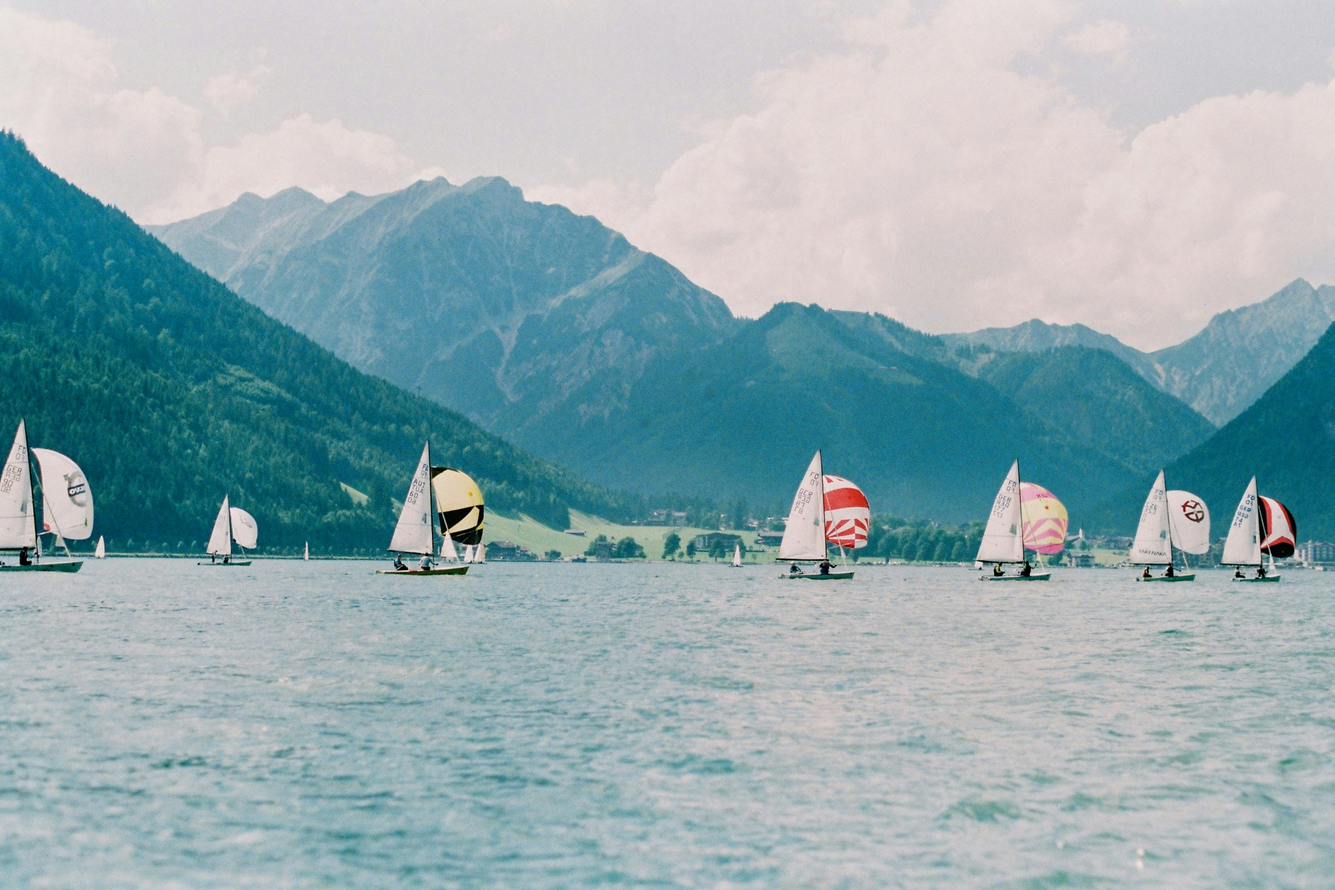
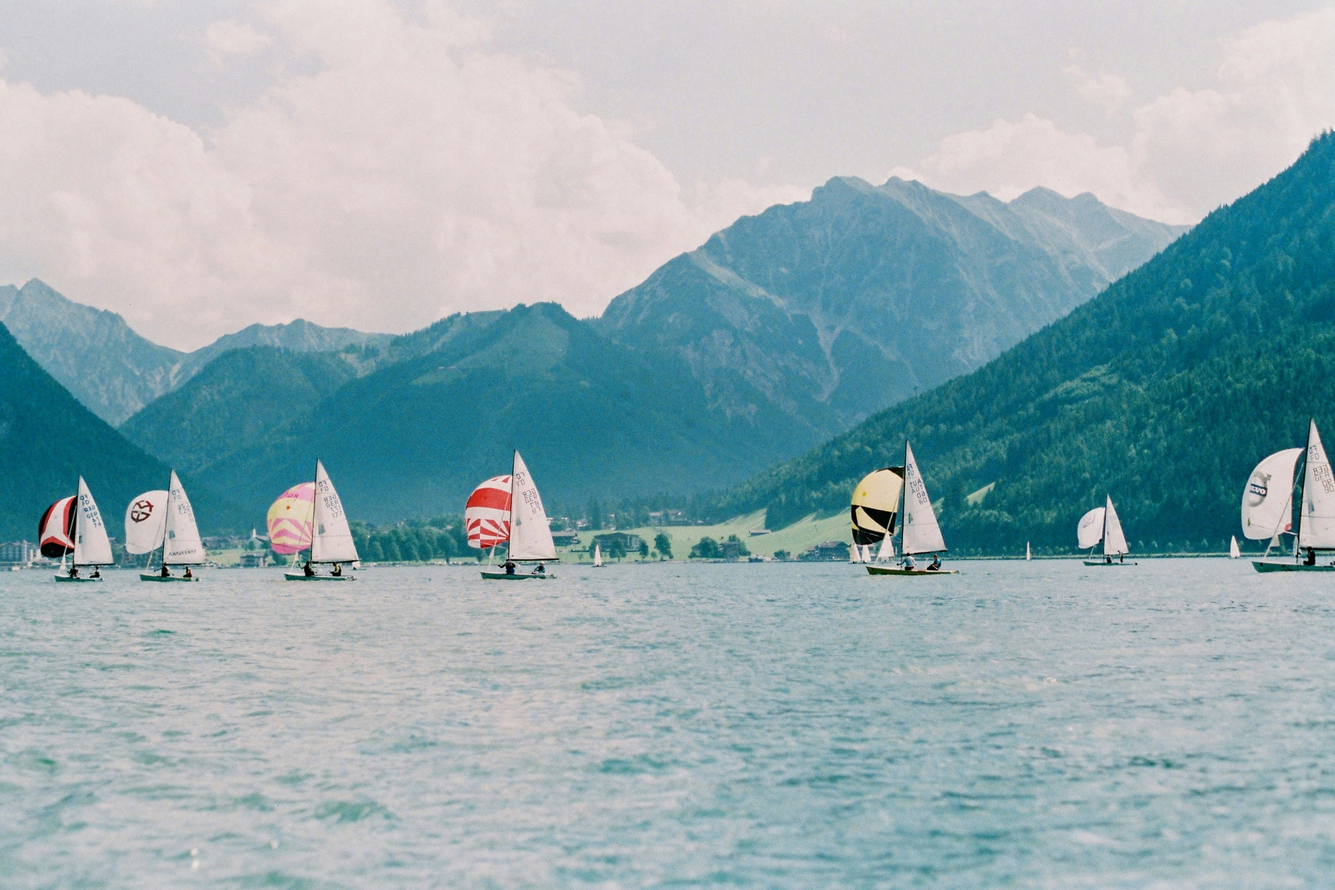
Preview page

diff --git a/src/components/PreviewPage.jsx b/src/components/PreviewPage.jsx
@@ -1,34 +1,46 @@
 import React from 'react';
 import TabletDeviceWrapper from './TabletDeviceWrapper';
 
+// Feature list component - displays app features on the left side
 const FeatureList = () => (
-  <div className="text-white space-y-8 max-w-xl">
-    <h1 className="text-4xl font-bold mb-8">NHEBSC Racing Results</h1>
+  <div className="text-gray-100 space-y-8 max-w-xl ">
+    <div className="flex">
+
+<div className="h-24 w-24 mr-2 rotate-90 fill-slate-100">
+    <svg xmlns="http://www.w3.org/2000/svg" viewBox="0 -960 960 960"><path d="M526-129q-5 4-10.5 6t-10.5 2q-6 0-11-2t-10-7q-41-43-61-89t-20-96q0-36 11-76.5T453-501q26-60 35-92.5t9-59.5q0-38-16.5-71T429-789q-5-5-7-10.5t-2-11.5q0-5 1.5-10t5.5-10q5-5 10.5-7.5T449-841q5 0 10.5 2t10.5 7q44 41 65.5 85t21.5 94q0 34-10 71.5T509-478q-26 61-36 96.5T463-316q0 39 16 74.5t49 70.5q4 5 5.5 10t1.5 10q0 6-2 11.5t-7 10.5Zm203 1q-5 4-10 5.5t-10 1.5q-6 0-11.5-2t-10.5-7q-41-43-61-88.5T606-314q0-36 11-76.5T656-500q26-60 35-92.5t9-59.5q0-38-16.5-70.5T632-788q-5-5-6.5-10t-1.5-11q0-5 1.5-10.5T631-830q5-5 10.5-7t11.5-2q5 0 10 1.5t10 5.5q44 41 65.5 85t21.5 94q0 34-10 71t-38 105q-26 60-36 95.5T666-316q0 39 16 75.5t49 70.5q4 5 5.5 10t1.5 10q0 6-2 11.5t-7 10.5Zm-406 0q-5 4-10 5.5t-10 1.5q-6 0-11.5-2t-10.5-7q-41-43-61-88.5T200-314q0-36 11-76.5T250-500q26-60 35-92.5t9-59.5q0-38-16.5-70.5T226-788q-5-5-7-10.5t-2-11.5q0-5 1.5-10.5T224-831q5-5 10.5-7.5T246-841q5 0 10.5 2t10.5 7q44 41 65.5 85t21.5 94q0 34-10.5 72.5T306-477q-25 60-35 95t-10 66q0 40 16 76t48 70q4 5 5.5 10t1.5 10q0 6-2 11.5t-7 10.5Z"/></svg>
+</div>
+
+<div className="flex flex-col align-middle justify-around">
+
+<h1 className="text-8xl w-full font-extralight font-h1 uppercase tracking-widest">WindSheet</h1>
+<h2 className="text-3xl w-full ml-3 font-light mb-8 font-h2 ">Racing results, refined</h2>
+</div>
+    </div>
     
-    <div className="space-y-4">
+    <div className="space-y-6">
       <div className="feature-item">
-        <h3 className="text-xl font-semibold mb-2">Real-time Race Management</h3>
-        <p className="text-gray-200">Register helms, record finishes, and manage race results with an intuitive drag-and-drop interface.</p>
+        <h3 className="text-xl mb-2">Real-time Race Management</h3>
+        <p >Register helms, record finishes, and manage race results with an intuitive drag-and-drop interface.</p>
       </div>
 
       <div className="feature-item">
-        <h3 className="text-xl font-semibold mb-2">Advanced Handicap System</h3>
-        <p className="text-gray-200">Automatic calculation of personal and class handicaps with rolling averages and novice adjustments.</p>
+        <h3 className="text-xl mb-2">Advanced Handicap System</h3>
+        <p >Automatic calculation of personal and class handicaps with rolling averages and novice adjustments.</p>
       </div>
 
       <div className="feature-item">
-        <h3 className="text-xl font-semibold mb-2">Series Tracking</h3>
-        <p className="text-gray-200">Comprehensive series points calculation with support for discards and OOD points.</p>
+        <h3 className="text-xl mb-2">Series Tracking</h3>
+        <p >Comprehensive series points calculation with support for discards and OOD points.</p>
       </div>
 
       <div className="feature-item">
-        <h3 className="text-xl font-semibold mb-2">Offline Capable</h3>
-        <p className="text-gray-200">Full offline functionality with automatic synchronization when connection is restored.</p>
+        <h3 className="text-xl mb-2">Offline Capable</h3>
+        <p >Full offline functionality with automatic synchronization when connection is restored.</p>
       </div>
 
       <div className="feature-item">
-        <h3 className="text-xl font-semibold mb-2">Multi-format Racing</h3>
-        <p className="text-gray-200">Support for both fleet and pursuit racing with specialized result handling for each format.</p>
+        <h3 className="text-xl mb-2">Multi-format Racing</h3>
+        <p >Support for both fleet and pursuit racing with specialized result handling for each format.</p>
       </div>
     </div>
   </div>
@@ -39,32 +51,32 @@ const PreviewPage = ({ children }) => {
     <div className="min-h-screen w-full relative overflow-hidden flex items-center">
       {/* Background Image with Color Filter */}
       <div 
-        className="absolute inset-0 bg-cover bg-center z-0 saturate-100 brightness-150 opacity-80"
+        className="absolute inset-0 bg-cover bg-center z-0 bg-white saturate-200 brightness-100 opacity-80"
         style={{ 
           backgroundImage: 'url(/sailing-background.jpg)', // You'll need to add this image
         }}
       >
         {/* Color Overlay - adjust hue by changing the color and opacity */}
         <div 
-          className="absolute inset-0" 
+          className="absolute inset-0 brightness-90 bg-gradient-to-tr from-[rgb(var(--dusky-blue))] via-50% via-slate-500 to-[rgb(var(--teal))]" 
           style={{ 
-            backgroundColor: 'rgb(0 87 109)', // Change this color to adjust the hue
-            opacity: 0.5,
+            // backgroundColor: 'rgb(0 87 109)', // Change this color to adjust the hue
+            opacity: 1,
             mixBlendMode: 'multiply'
           }} 
         />
       </div>
 
       {/* Content Container */}
-      <div className="relative z-10 w-full max-w-8xl mx-auto px-4">
-        <div className="grid grid-cols-1 lg:grid-cols-2 gap-12 items-center">
+      <div className="relative z-10 max-w-screen-lg max-w-8xl mx-auto px-4">
+        <div className="grid grid-cols-1 lg:grid-cols-12 gap-12 items-center">
           {/* Left Side - Features */}
-          <div className="hidden lg:flex justify-end pr-8">
+          <div className="hidden lg:flex justify-center pr-8 col-span-6">
             <FeatureList />
           </div>
 
           {/* Right Side - Tablet Preview */}
-          <div className="w-full flex justify-start pl-8">
+          <div className="flex justify-center pl-8 col-span-6">
             <div className="transform scale-100 origin-center">
               <TabletDeviceWrapper>
                 {children}

diff --git a/src/components/TabletDeviceWrapper.jsx b/src/components/TabletDeviceWrapper.jsx
@@ -9,7 +9,7 @@ export const TabletDeviceWrapper = ({ children }) => {
   const TABLET_HEIGHT = 888;
   
   // Scale factor (e.g., 0.75 = 75% of original size)
-  const SCALE = 0.6;
+  const SCALE = 0.75;
   
   // Calculate scaled dimensions
   const scaledWidth = TABLET_WIDTH * SCALE;
@@ -33,8 +33,6 @@ export const TabletDeviceWrapper = ({ children }) => {
     return <>{children}</>;
   }
 
-//   <div className="relative">
-{/* Tablet Frame */}
   return (
         <div className="bg-gray-800 rounded-[40px] p-8 shadow-xl">
           {/* Camera */}
@@ -61,19 +59,13 @@ style={{
                   width: `${(100/SCALE)}%`,
                   height: `${(100/SCALE)}%`,
                   position: 'absolute',
-                //   left: `${offsetX}px`,
-                //   top: `${offsetY}px`
                 }}
             >
               {children}
             </div>
           </div>
-
-          {/* Home Button */}
-          <div className="absolute bottom-2 left-1/2 -translate-x-1/2 w-12 h-12 rounded-full border-4 border-gray-700" />
         </div>
   );
-      {/* </div> */}
 };
 
 export default TabletDeviceWrapper;

diff --git a/index.html b/index.html
@@ -16,6 +16,12 @@
       type="font/woff2" 
       crossorigin="anonymous"
     />
+
+    <link rel="preconnect" href="https://fonts.googleapis.com">
+    <link rel="preconnect" href="https://fonts.gstatic.com" crossorigin>
+    <link href="https://fonts.googleapis.com/css2?family=Imbue:opsz,wght@10..100,100..900&family=Playfair:ital,opsz,wght@0,5..1200,300..900;1,5..1200,300..900&display=swap" rel="stylesheet">
+    <link href="https://fonts.googleapis.com/css2?family=Imbue:opsz,wght@10..100,100..900&family=Marcellus&family=Playfair:ital,opsz,wght@0,5..1200,300..900;1,5..1200,300..900&display=swap" rel="stylesheet">
+
     <link rel="apple-touch-icon" href="/apple-touch-icon.png" sizes="180x180">
     <link rel="mask-icon" href="/maskable_icon_x512.png" color="#FFFFFF">
     <meta name="theme-color" content="#000000" />

diff --git a/tailwind.config.js b/tailwind.config.js
@@ -15,6 +15,30 @@ export default {
           "Arial",
           "sans-serif",
         ],
+        h1: [
+          "Imbue",
+          "Inter",
+          "system-ui",
+          "-apple-system",
+          "BlinkMacSystemFont",
+          '"Segoe UI"',
+          "Roboto",
+          '"Helvetica Neue"',
+          "Arial",
+          "sans-serif",
+        ],
+        h2: [
+          "Marcellus",
+          "Inter",
+          "system-ui",
+          "-apple-system",
+          "BlinkMacSystemFont",
+          '"Segoe UI"',
+          "Roboto",
+          '"Helvetica Neue"',
+          "Arial",
+          "sans-serif",
+        ],
       },
     },
   },

diff --git a/src/styles.css b/src/styles.css
@@ -6,6 +6,13 @@
 /* Your existing custom styles */
 :root {
   --screen-height: 100px;
+
+  --text-highlight: 216, 42, 141;
+  --text-body: 0, 0, 0;
+  --dusky-blue: 0, 87, 109;
+  --green-blue: 104, 221, 196;
+  --teal: 32, 155, 168, 0.1;
+  --light-blue: 133, 202, 225;
 }
 
 button,
